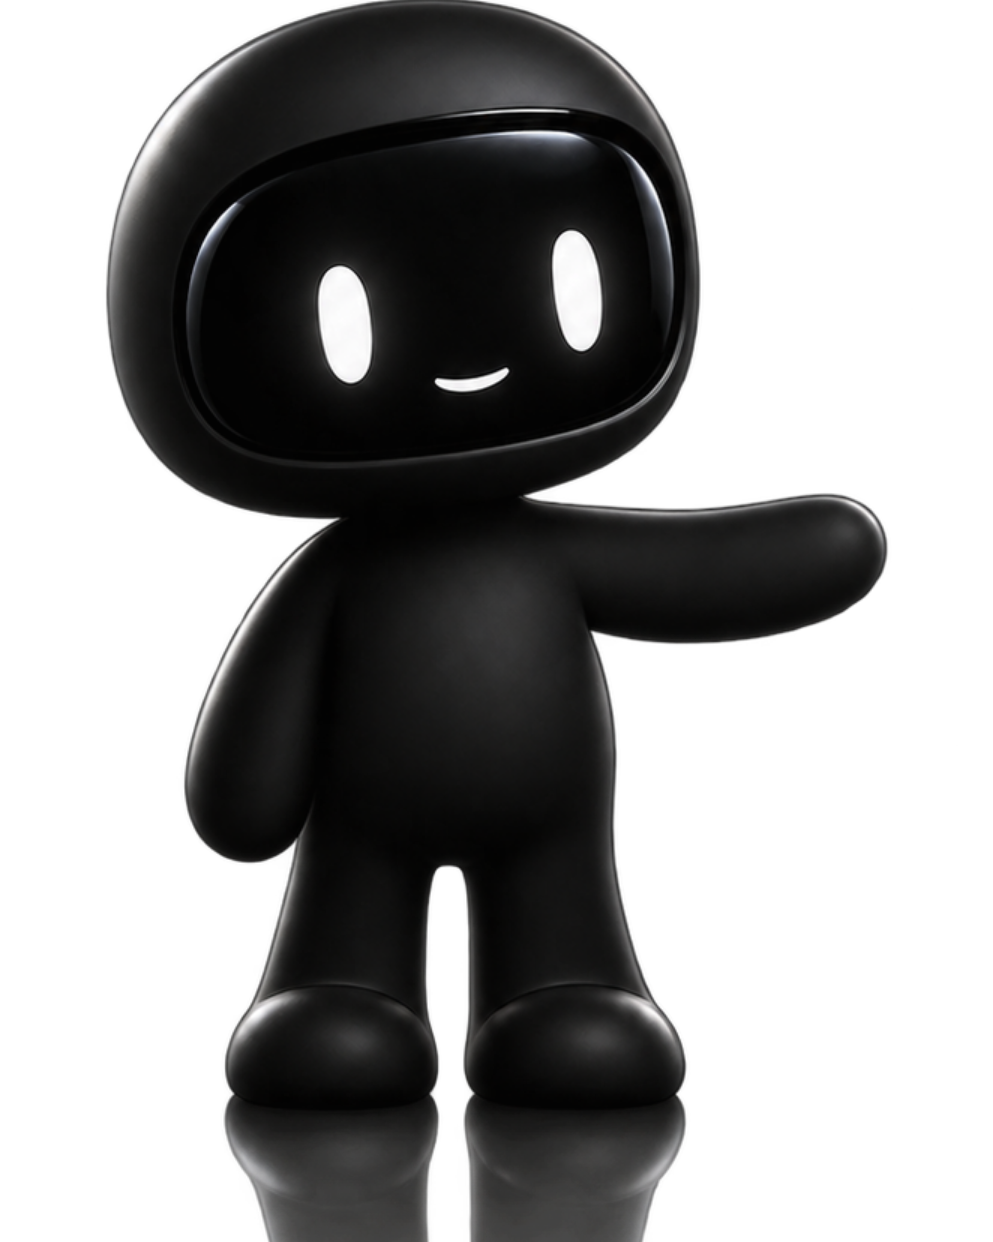
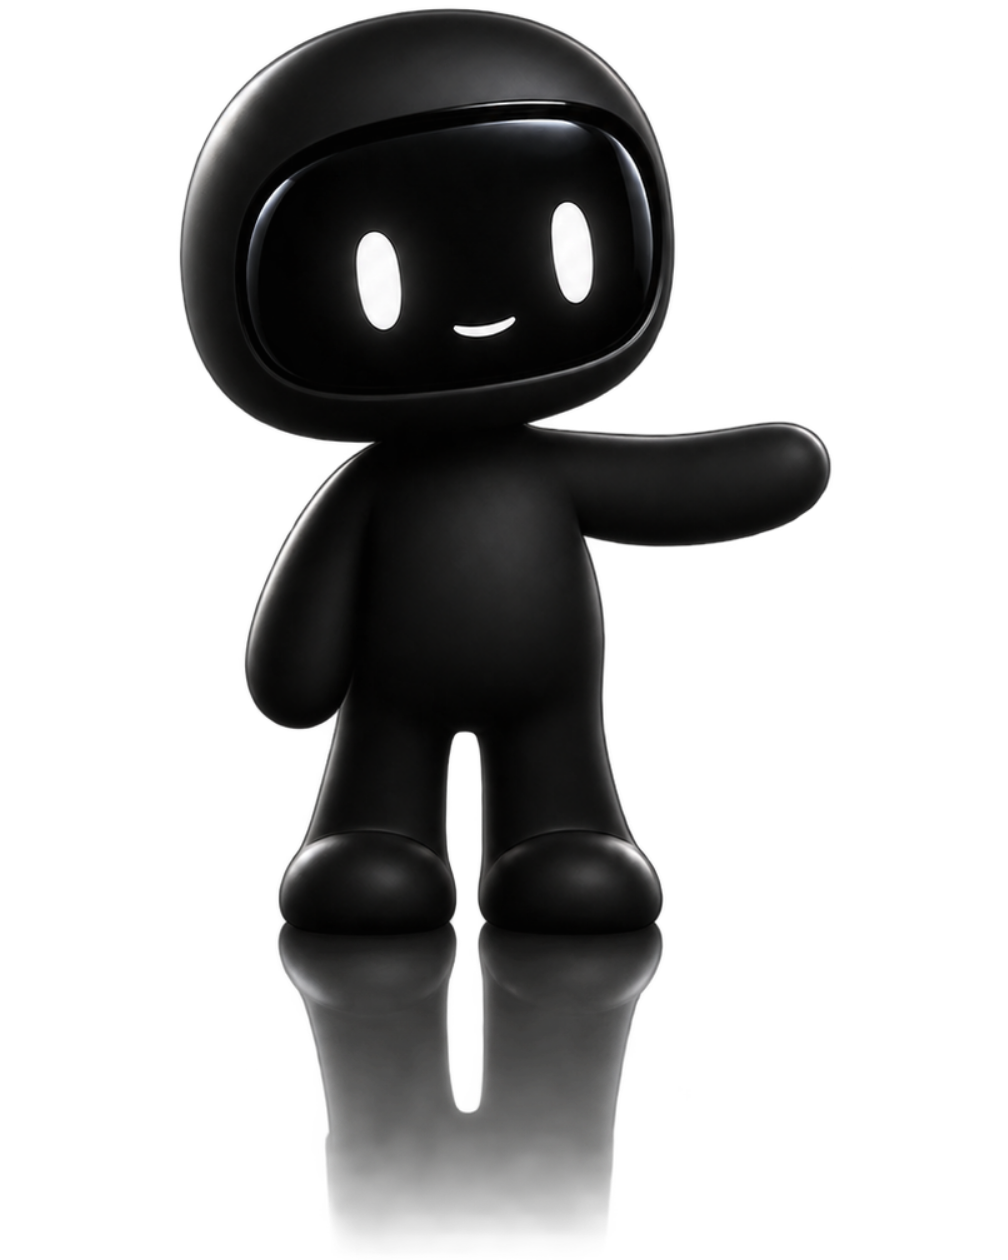
Stop cropping the reflection off to make the scales agree
Brandon spotted the presenting pose standing on a shelf, and it was a
compromise I made and talked myself out of caring about. His render fades
properly - alpha runs 191 down to 1 over the last hundred rows - and my crop
sliced it at 828px, mid-fade, because that was the canvas height that put
his head at the same share as the other poses.

Forcing the canvas to carry the scale was the mistake. Each file now holds
the WHOLE figure including the full reflection, and the size difference is
corrected in the component: POSES carries a `scale` per pose, and height is
multiplied by it before rendering. So `height` still means one body size
everywhere, and no reflection gets cut to achieve it.

Worth recording what the two files actually are, because they are not the
same kind of image. The presenting render fades in ALPHA. The original idle
render does not - it is rgb(0,0,0) at alpha ~230 all the way to its own
bottom edge, so it fades visually against a black page and would paint a
faintly darker rectangle on anything lighter. That is in the source file and
no crop recovers it; it is invisible on this page and worth knowing before
he is ever put on a light surface.

Adding a pose is now: crop to the full figure plus reflection, measure his
head width as a percentage of canvas height, set scale to 51.3 over that.

Changed region(s): [[0.0937, 0.0, 0.9053, 1.0], [0.281, 0.1224, 0.3122, 0.153]]

diff --git a/src/components/shared/Mascot.tsx b/src/components/shared/Mascot.tsx
@@ -3,19 +3,33 @@ import mascotWave from '../../assets/mascot-wave.png';
 import mascotPresent from '../../assets/mascot-present.png';
 
 /*
-  His poses.
+  His poses, and what each one's file needs to be scaled by.
 
-  Every file is cropped so his HEAD is the same fraction of the canvas -
-  51.5% of canvas height, measured rather than eyeballed - which is what
-  makes `height` mean the same thing whatever pose is asked for. Crop them
-  to their own bounding boxes instead and the same number renders a
-  noticeably bigger character for any pose with a raised arm, because the
-  arm inflates the box.
+  The problem this solves: every render comes back framed differently -
+  measured in the original 1254px files his head is 528px wide waving and
+  420px presenting, despite the prompt asking for the same camera. So the
+  same `height` would render a visibly different-sized character between two
+  sections a reader scrolls past in seconds.
+
+  The first fix was to crop every file until his head was the same share of
+  the canvas. That worked and was wrong: forcing the canvas to a ratio meant
+  cutting the presenting pose's reflection off mid-fade, which is exactly
+  what it looked like - a character standing on a shelf.
+
+  So each file is now cropped to hold the WHOLE figure including the full
+  reflection, and the size difference is corrected here instead. `scale` is
+  the number that makes his head the same size as the idle pose's, and
+  `height` therefore means the same thing everywhere while every reflection
+  runs to its natural end.
+
+  Adding a pose: crop to the full figure plus its reflection, measure his
+  head width as a percentage of canvas height, and set scale to 51.3 divided
+  by that percentage.
 */
 const POSES = {
-  idle: mascotIdle,
-  wave: mascotWave,
-  present: mascotPresent,
+  idle:    { src: mascotIdle,    scale: 1 },      /* head 51.3% of canvas */
+  wave:    { src: mascotWave,    scale: 1 },      /* head 51.3% */
+  present: { src: mascotPresent, scale: 1.233 },  /* head 41.6% */
 } as const;
 
 export type MascotPose = keyof typeof POSES;
@@ -87,16 +101,20 @@ export default function Mascot({
     tilt ? `rotate(${facing === 'left' ? -tilt : tilt}deg)` : null,
   ].filter(Boolean).join(' ');
 
+  /* The file's own height, so his BODY comes out the size that was asked
+     for regardless of how much empty frame the render came with. */
+  const renderedHeight = Math.round(height * POSES[pose].scale);
+
   return (
     <img
-      src={POSES[pose]}
+      src={POSES[pose].src}
       alt=""
       aria-hidden="true"
-      height={height}
+      height={renderedHeight}
       loading="lazy"
       decoding="async"
       className={`select-none pointer-events-none ${className}`}
-      style={{ height, width: 'auto', transform: transform || undefined }}
+      style={{ height: renderedHeight, width: 'auto', transform: transform || undefined }}
       draggable={false}
     />
   );
